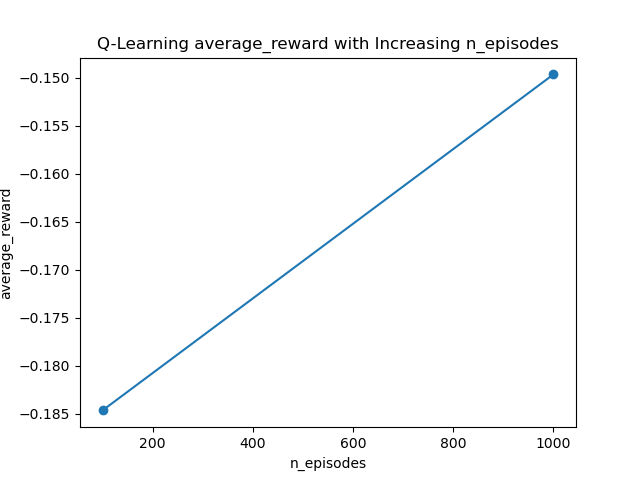
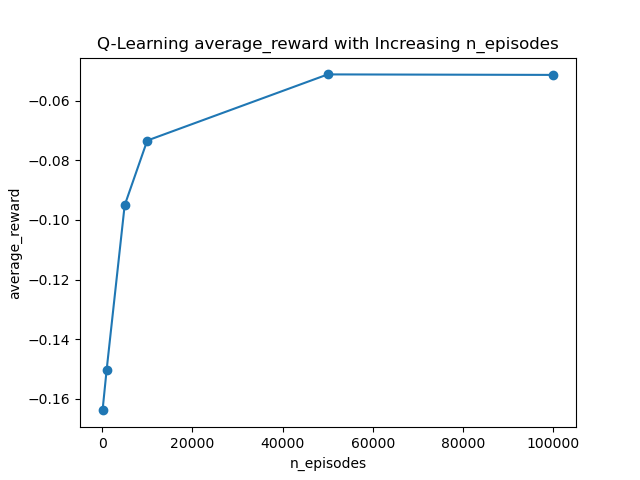
code finished

diff --git a/mdp.py b/mdp.py
@@ -3,19 +3,26 @@ import pandas as pd
 import matplotlib.pyplot as plt
 import seaborn as sns
 import gymnasium as gym
-import itertools
-#import json
+import math
+import warnings
 import pickle
 import os
 import time
-
+from matplotlib.colors import LinearSegmentedColormap
 from algorithms.rl import RL
 from algorithms.planner import Planner
 from examples.plots import Plots
-from examples.test_env import TestEnv
-from collections import defaultdict
 
 np.random.seed(8588)
+
+# Used to find the number of iterations it took for algorithms to converge
+# https://stackoverflow.com/a/47269413/22862849
+def first_nonzero_row(arr, axis=1):
+    def nonzero(row):
+        return not np.any(row)
+
+    idx = np.argmax((np.apply_along_axis(nonzero, axis=axis, arr=arr))[1:, ])
+    return idx
 
 """
 MDP 1: Blackjack
@@ -117,19 +124,72 @@ def random_blackjack(num_episodes=1_000_000):
     rewards = np.asarray(rewards)
     bj_statistics(rewards, num_episodes)
 
-def blackjack_value_iteration():
+def blackjack_value_iteration(**kwargs):
     print("================= Blackjack: Value Iteration =================")
     blackjack = Blackjack()
-    V, V_track, pi = Planner(blackjack.P).value_iteration()
-    play_with_policy(blackjack.env, pi=pi)
-    return
-    
-def blackjack_policy_iteration():
+    t0 = time.time()
+    V, V_track, pi = Planner(blackjack.P).value_iteration(**kwargs)
+    t1 = time.time()
+    average_reward, win, _, _ = play_with_policy(blackjack.env, pi=pi)
+    return (t1-t0), V_track, average_reward, win
+
+def blackjack_gamma_value_exp():
+    gammas = [0.1, 0.3, 0.5, 0.6, 0.7, 0.8, 0.9, 1.0]
+    stats = { "gamma" : gammas,
+              "num_iter" : [],
+              "reward": [],
+              "win_percentage": [],
+
+            }
+    for gamma in gammas:
+        _, V_track, average_reward, win = blackjack_value_iteration(gamma=gamma)
+        iterations = first_nonzero_row(V_track, 1)
+        stats['num_iter'].append(iterations)
+        stats['reward'].append(average_reward)
+        stats['win_percentage'].append(win)
+    stats = pd.DataFrame(stats)
+    print(stats)
+
+def blackjack_policy_iteration(**kwargs):
     print("================= Blackjack: Policy Iteration =================")
     blackjack = Blackjack()
-    V, V_track, pi = Planner(blackjack.P).policy_iteration()
-    play_with_policy(blackjack.env, pi=pi)
-    return
+    t0 = time.time()
+    V, V_track, pi = Planner(blackjack.P).policy_iteration(**kwargs)
+    t1 = time.time()
+    average_reward, win, _, _ = play_with_policy(blackjack.env, pi=pi)
+    return (t1 - t0), V_track, average_reward, win
+
+def blackjack_policy_vs_value(n_trials=1):
+    policy = {
+        'times': [],
+        'iterations': [],
+        'average_reward': [],
+        'win_percentage': []
+    }
+    value = {
+        'times': [],
+        'iterations': [],
+        'average_reward': [],
+        'win_percentage': []
+    }
+    for _ in range(n_trials):
+        time, V_track, average_reward, win = blackjack_value_iteration()
+        value['times'].append(time)
+        value['iterations'].append(first_nonzero_row(V_track, 1))
+        value['average_reward'].append(average_reward)
+        value['win_percentage'].append(win)
+
+        time, V_track, average_reward, win = blackjack_policy_iteration()
+        policy['times'].append(time)
+        policy['iterations'].append(first_nonzero_row(V_track, 1))
+        policy['average_reward'].append(average_reward)
+        policy['win_percentage'].append(win)
+    policy = pd.DataFrame(policy)
+    value = pd.DataFrame(value)
+    print("Policy iteration stats")
+    print(policy.mean(axis=0))
+    print("Value iteration stats")
+    print(value.mean(axis=0))
 
 def blackjack_q_learning( verbose=False, **kwargs):
     blackjack = Blackjack()
@@ -140,7 +200,7 @@ def blackjack_q_learning( verbose=False, **kwargs):
     return (t1-t0), avg_reward, win_p, tie_p, lost_p
 
 def blackjack_q_learning_iters(n_trials=3):
-    episodes = [100, 1_000,] #5_000, 10_000, 50_000, 100_000]
+    episodes = [100, 1_000, 5_000, 10_000, 50_000, 100_000]
     stats = {
         "n_episodes" : episodes,
         "times": [],
@@ -182,7 +242,7 @@ def blackjack_q_learning_iters(n_trials=3):
         plt.clf()
     return
 
-def play_with_policy(env, pi, num_episodes=1000, convert_state_obs=Blackjack().convert_state_obs, verbose=True):
+def play_with_policy(env, pi, num_episodes=100_000, convert_state_obs=Blackjack().convert_state_obs, verbose=True):
     rewards = []
     for _ in range(num_episodes):
         observation, _= env.reset()
@@ -207,7 +267,7 @@ class Taxi:
     def __init__(self):
         self.env = gym.make('Taxi-v3', render_mode=None)
 
-def taxi_with_policy(env, pi, num_episodes=5):
+def taxi_with_policy(env, pi, num_episodes=10):
     rewards = []
     for _ in range(num_episodes):
         state, _= env.reset()
@@ -225,30 +285,159 @@ def taxi_with_policy(env, pi, num_episodes=5):
 
 def taxi_value_iteration(**kwargs):
     taxi = Taxi()
+    t0 = time.time()
     V, V_track, pi = Planner(taxi.env.P).value_iteration(**kwargs)
-    #test_scores = TestEnv.test_env(env=taxi.env, render=True, user_input=False, pi=pi)
-    taxi_with_policy(taxi.env, pi)
+    t1 = time.time()
+    iterations = first_nonzero_row(V_track)
+    runtime = t1 - t0
+    average_reward = taxi_with_policy(taxi.env, pi)
+    return runtime, iterations, average_reward
+
+def taxi_gamma_exp(algorithm):
+    gammas = [0.1, 0.3, 0.5, 0.6, 0.7, 0.8, 0.9, 0.99]
+    stats = { "gamma" : gammas,
+              "iterations" : [],
+              "reward": [],
+              "runtime": [],
+            }
+    for gamma in gammas:
+        runtime, iterations, avg_reward = algorithm(gamma=gamma)
+        stats['iterations'].append(iterations)
+        stats['reward'].append(avg_reward)
+        stats['runtime'].append(runtime)
+    stats = pd.DataFrame(stats)
+    return stats
+
+def taxi_value_vs_policy():
+    value_stats = taxi_gamma_exp(taxi_value_iteration)
+    policy_stats = taxi_gamma_exp(taxi_policy_iteration)
+    for stat in ['iterations', 'reward', 'runtime']:
+        fig, ax = plt.subplots()
+        ax.plot(policy_stats['gamma'], policy_stats[stat], marker='o')
+        ax.plot(value_stats['gamma'], value_stats[stat], marker='o')
+        ax.legend(['Policy Iteration', 'Value Iteration'])
+        plt.xlabel('gamma')
+        plt.ylabel(f'{stat}')
+        plt.title(f'Taxi {stat}: Policy vs. Value Iteration')
+        plt.savefig(fname=f'Taxi_policy_value_{stat}_Results')
+        plt.clf()
 
 def taxi_policy_iteration(**kwargs):
     taxi = Taxi()
-    V, V_track, pi = Planner(taxi.env.P).policy_iteration(theta=1e-5, **kwargs)
-    #test_scores = TestEnv.test_env(env=taxi.env, render=True, user_input=False, pi=pi)
-    taxi_with_policy(taxi.env, pi)
+    t0 = time.time()
+    V, V_track, pi = Planner(taxi.env.P).policy_iteration(**kwargs)
+    t1 = time.time()
+    iterations = first_nonzero_row(V_track)
+    runtime = t1 - t0
+    average_reward = taxi_with_policy(taxi.env, pi)
+    return runtime, iterations, average_reward
 
 def taxi_q_learning(**kwargs):
     taxi = Taxi()
     t0 = time.time()
     Q, V, pi, Q_track, pi_track = RL(taxi.env).q_learning(**kwargs)
     t1 = time.time()
-    return (t1- t0)
+    runtime = t1 -t0
+    return runtime, pi, Q_track
 
+def init_epsilon():
+    epsilons = [0.3, 0.5, 0.7, 0.9, 1.0]
+    data = {'epsilon' : epsilons,
+            'q_track': []
+           }
+    for epsilon in epsilons:
+        runtime, pi, Q_track = taxi_q_learning(init_epsilon=epsilon, n_episodes=500)
+        data['q_track'].append(Q_track)
+    data = pd.DataFrame(data)
+    fig, ax = plt.subplots()
+    for index, row in data.iterrows():
+        Q_track_max = np.amax(np.amax(row['q_track'], axis=2), axis=1)
+        ax.plot(pd.RangeIndex(len(Q_track)), Q_track_max)
+    plt.xlabel('Iterations')
+    plt.ylabel('Max Q-Value')
+    plt.title("Max Q-Values for Initial Epsilons")
+    ax.legend(['Init Epsilon: ' + str(ep) for ep in epsilons])
+    plt.savefig('Init_Episilon_Q_Max_Iter')
+
+def min_epsilon():
+    epsilons = [0.1, 0.2, 0.3, 0.5, 0.7, 0.9]
+    data = {'epsilon' : epsilons,
+            'q_track': []
+           }
+    for epsilon in epsilons:
+        runtime, pi, Q_track = taxi_q_learning(min_epsilon=epsilon, n_episodes=500)
+        data['q_track'].append(Q_track)
+    data = pd.DataFrame(data)
+    fig, ax = plt.subplots()
+    for index, row in data.iterrows():
+        Q_track_max = np.amax(np.amax(row['q_track'], axis=2), axis=1)
+        ax.plot(pd.RangeIndex(len(Q_track)), Q_track_max)
+    plt.xlabel('Iterations')
+    plt.ylabel('Max Q-Value')
+    plt.title("Max Q-Values for Minimum Epsilons")
+    ax.legend(['Min Epsilon: ' + str(ep) for ep in epsilons])
+    plt.savefig('Min_Epsilon_Q_Max_Iter')
+
+def alpha():
+    alphas = [0.1, 0.3, 0.5, 0.7, 0.9, 1.0]
+    data = {'alpha' : alphas,
+            'q_track': []
+           }
+    for alpha in alphas:
+        runtime, pi, Q_track = taxi_q_learning(init_alpha=alpha, n_episodes=500)
+        data['q_track'].append(Q_track)
+    data = pd.DataFrame(data)
+    fig, ax = plt.subplots()
+    for index, row in data.iterrows():
+        Q_track_max = np.amax(np.amax(row['q_track'], axis=2), axis=1)
+        ax.plot(pd.RangeIndex(len(Q_track)), Q_track_max)
+    plt.xlabel('Iterations')
+    plt.ylabel('Max Q-Value')
+    plt.title("Max Q-Values for Initial alphas")
+    ax.legend(['Init alpha: ' + str(al) for al in alphas])
+    plt.savefig('Init_Alpha_Q_Max_Iter')
+
+def gamma():
+    gammas = [0.1, 0.3, 0.5, 0.7, 0.8, 0.99]
+    data = {'gamma' : gammas,
+            'q_track': []
+           }
+    for gamma in gammas:
+        runtime, pi, Q_track = taxi_q_learning(gamma=gamma, n_episodes=500)
+        data['q_track'].append(Q_track)
+    data = pd.DataFrame(data)
+    fig, ax = plt.subplots()
+    for index, row in data.iterrows():
+        Q_track_max = np.amax(np.amax(row['q_track'], axis=2), axis=1)
+        ax.plot(pd.RangeIndex(len(Q_track)), Q_track_max)
+    plt.xlabel('Iterations')
+    plt.ylabel('Max Q-Value')
+    plt.title("Max Q-Values for gamma")
+    ax.legend(['gamma: ' + str(gam) for gam in gammas])
+    plt.savefig('Gamma_Q_Max_Iter')
+
+def taxi_q_value_plot(**kwargs):
+    _, _, Q_track = taxi_q_learning(**kwargs)
+    max_q_value_per_iter = np.amax(np.amax(Q_track, axis=2), axis=1)
+    v_iters_plot(max_q_value_per_iter, "Taxi Max Q-Values")
+
+def v_iters_plot(data, label):
+        df = pd.DataFrame(data=data)
+        df.columns = [label]
+        sns.set_theme(style="whitegrid")
+        title = label + " v Iterations"
+        sns.lineplot(x=df.index, y=label, data=df).set_title(title)
+        plt.xlabel("Iterations")
+        plt.savefig(f'{label}')
+        plt.clf()
 if __name__ == "__main__":
-    bj = Blackjack()
-    print(bj.n_states)
-    print(bj.n_actions)
     #random_blackjack()
-    #blackjack_value_iteration()
-    #blackjack_policy_iteration()
-    #blackjack_q_learning_iters()
-    #taxi_value_iteration()
-    #taxi_policy_iteration()
+    blackjack_gamma_value_exp()
+    blackjack_policy_vs_value()
+    blackjack_q_learning_iters()
+    taxi_value_vs_policy()
+    taxi_q_value_plot()
+    init_epsilon()
+    min_epsilon()
+    alpha()
+    gamma()
